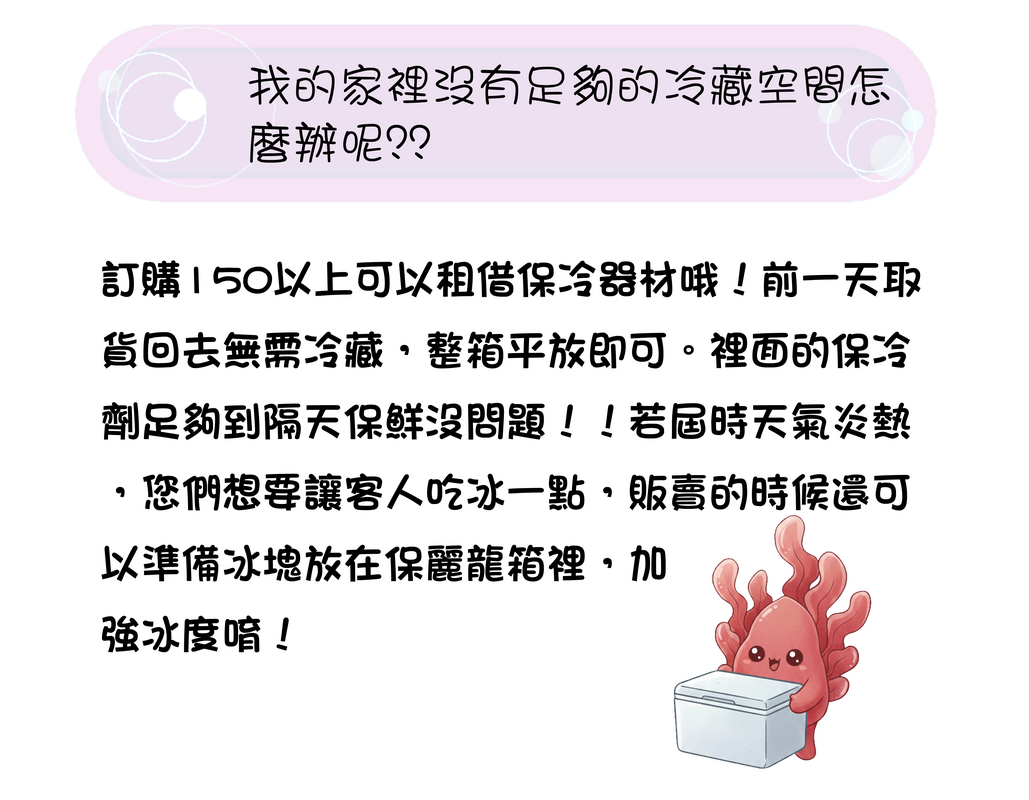
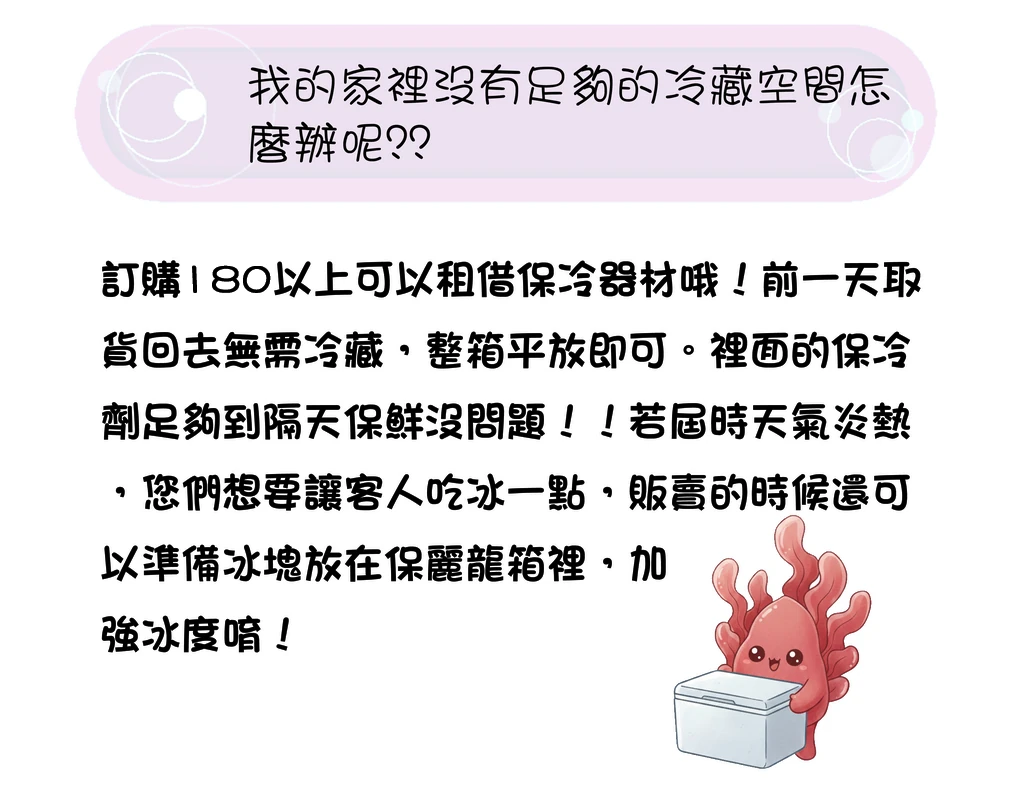
更新保冷器材說明圖片

diff --git a/index.html b/index.html
@@ -542,7 +542,7 @@ sub {
 
 <div><div class="wsite-image wsite-image-border-none " style="padding-top:10px;padding-bottom:10px;margin-left:0;margin-right:0;text-align:center">
 <a>
-<img src="uploads/1/2/4/5/124560042/q5-2_orig.webp" alt="訂購 150 支以上可洽詢租借保冷器材" width="1029" height="800" style="width:auto;max-width:100%" loading="lazy" decoding="async" />
+<img src="uploads/1/2/4/5/124560042/q5-2_orig.webp?v=20261004" alt="訂購 180 支以上可租借保冷器材與保冷保存說明" width="1029" height="800" style="width:auto;max-width:100%" loading="lazy" decoding="async" />
 </a>
 <div style="display:block;font-size:90%"></div>
 </div></div>
